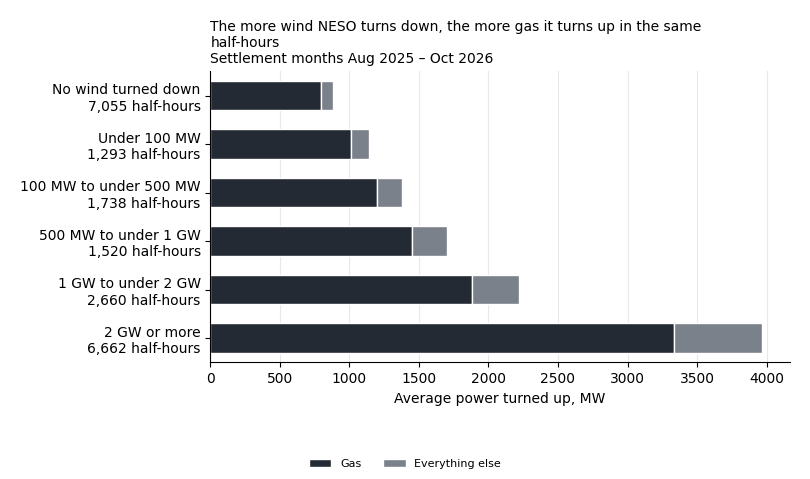
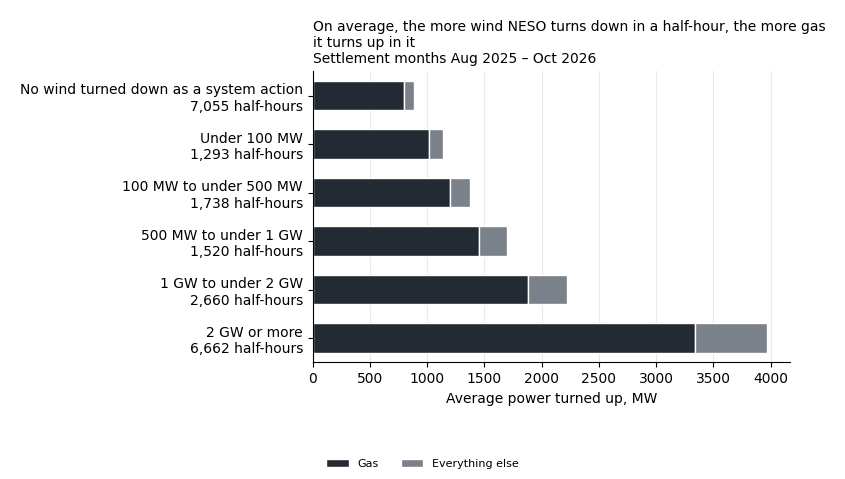
Q37: averages in the headline and chart title, the first band named as a system action, flags on superseded acceptances; worked rows for a stretch inside a ramp

diff --git a/site/index.html b/site/index.html
@@ -668,10 +668,10 @@
 
   <article id="q37">
     <h3>When NESO turns wind farms down, what does it turn up?</h3>
-    <p class="answer"><strong>Mostly gas, and more of it the more wind is turned down.</strong> NESO turned wind down as a system action in 66% of half-hours, and by 1 GW or more in 45%. Where wind is turned down as a system action, gas is 85% of the energy turned up, 2.4 GW on average; elsewhere, gas is still 90% of it, but 0.8 GW.</p>
+    <p class="answer"><strong>Mostly gas, and on average more gas the more wind is turned down in the same half-hour.</strong> NESO turned wind down as a system action in 66% of half-hours, and by 1 GW or more in 45%. Where wind is turned down as a system action, gas is 85% of the energy turned up, 2.4 GW on average; elsewhere, gas is still 90% of it, but 0.8 GW.</p>
     <figure>
       <div class="chart" id="q37-chart">
-        <img src="results/q37_turn_up_by_wind_turn_down_band.png" alt="The more wind NESO turns down, the more gas it turns up in the same half-hours" loading="lazy">
+        <img src="results/q37_turn_up_by_wind_turn_down_band.png" alt="On average, the more wind NESO turns down in a half-hour, the more gas it turns up in it" loading="lazy">
       </div>
       <figcaption>Settlement months Aug 2025 – Oct 2026, every unit NESO instructed. Source: Elexon BMRS.</figcaption>
     </figure>
@@ -680,7 +680,7 @@
       <summary>How I measured it</summary>
       <dl>
         <dt>Result</dt>
-        <dd>NESO turned down 14.9 TWh at wind farms as system actions (settlement months Aug 2025 – Oct 2026), 14% of the energy the wind farms planned; by month from 9% (August 2026) to 22% (September 2026). Of 20,928 half-hours, 13,873 have such a turn-down (66%), 12,580 one of 100 MW or more (60%) and 9,322 one of 1 GW or more (45%). In the 13,873, NESO turned up 19.4 TWh, 16.4 TWh of it at gas units (85%). In the 7,055 with none, it turned up 3.1 TWh, 2.8 TWh of it at gas units (90%).</dd>
+        <dd>NESO turned down 14.9 TWh at wind farms as system actions (settlement months Aug 2025 – Oct 2026), 14% of the energy the wind farms planned; by month from 9% (August 2026) to 22% (September 2026). Of 20,928 half-hours, 13,873 have such a turn-down (66%), 12,580 one of 100 MW or more (60%) and 9,322 one of 1 GW or more (45%). In the 13,873, NESO turned up 19.4 TWh, 16.4 TWh of it at gas units (85%). In the 7,055 with none, it turned up 3.1 TWh, 2.8 TWh of it at gas units (90%). By band, gas averages 0.8 GW with no wind turned down as a system action and 3.3 GW at 2 GW or more, while its share of the energy turned up falls from 90% to 84%.</dd>
         <dt>Chart</dt>
         <dd>Settlement months Aug 2025 – Oct 2026; the first is a part month, from 22 August 2025. Each half-hour is placed by the wind NESO turned down in it as a system action; a half-hour's energy in MWh times two is its average power in MW. Everything else is bioenergy, hydro, pumped storage, wind, the other group and units with no published fuel type.</dd>
         <dt>Measure</dt>
@@ -688,7 +688,7 @@
         <dt>Left out</dt>
         <dd>Nothing: every instruction in the period had a plan to compare with, a single ramp to read its level from and a flag value.</dd>
         <dt>Limits</dt>
-        <dd>Only Balancing Mechanism instructions are read: no trades, and no wind outside the Balancing Mechanism. At a battery, pumped-storage, interconnector or demand unit, turned up can mean importing less. Half-hours with wind turned down differ from the others in wind and demand, and nothing here allows for that. Gas is most of the energy NESO turns up in every band, with or without wind turned down.</dd>
+        <dd>Only Balancing Mechanism instructions are read: no trades, and no wind outside the Balancing Mechanism. At a battery, pumped-storage, interconnector or demand unit, turned up can mean importing less. Half-hours with wind turned down differ from the others in wind and demand, and nothing here allows for that. Gas is most of the energy NESO turns up in every band, including half-hours with no wind turned down as a system action. Where a later instruction replaces an earlier one, the whole distance from the plan carries the later instruction's flag.</dd>
         <dt>Data</dt>
         <dd>22 August 2025 to 31 October 2026, with data to 31 October 2026 23:30 UTC. Read 27 November 2026, 07:54 UTC.</dd>
         <dt>Method</dt>
@@ -1094,7 +1094,7 @@
     <li>The metered figure is the latest settlement run held at each read, which differs by date.</li>
     <li>The plan (PN) is the latest published Final Physical Notification captured after gate closure.</li>
     <li>Services NESO buys outside the balancing mechanism are not in the instructions (BOALF).</li>
-    <li>The units studied are not the whole grid: wind and solar on local networks outside the Balancing Mechanism are not in them, and batteries with no published fuel type are counted only in what is turned up with wind turned down<a class="ref" href="#q37" aria-label="Details, Q37">*</a>.</li>
+    <li>The units studied are not the whole grid: wind and solar on local networks outside the Balancing Mechanism are not in them, and batteries with no published fuel type are counted only in settlement revisions<a class="ref" href="#q2" aria-label="Details, Q2">*</a> and what is turned up with wind turned down<a class="ref" href="#q37" aria-label="Details, Q37">*</a>.</li>
     <li>Results that set one measure against another (published outages<a class="ref" href="#q5" aria-label="Details, Q5">*</a>, demand or under-delivery<a class="ref" href="#q8" aria-label="Details, Q8">*</a>, carbon misses and under-delivery<a class="ref" href="#q28" aria-label="Details, Q28">*</a>, wind's shortfall<a class="ref" href="#wind-shortfall" aria-label="Details, wind's shortfall">*</a>, wind and carbon misses<a class="ref" href="#q30" aria-label="Details, Q30">*</a> and what is turned up with wind turned down<a class="ref" href="#q37" aria-label="Details, Q37">*</a>) are associations, not causes. Each result covers the period given beside it and may not hold in another.</li>
     <li>The forecast's drift<a class="ref" href="#q1" aria-label="Details, Q1">*</a> and accuracy by lead time<a class="ref" href="#q10" aria-label="Details, Q10">*</a> cover one window, 19 August to 12 November 2026, with no winter or spring. Inside it the accuracy result's bias changes sign: negative on its 365 earliest half-hours (19 August to 4 September 2026), positive on the 2,499 from 11 September. The drift's upward direction also holds on the 2,530 half-hours after 10 September 2026, 05:30 UTC; the accuracy figures point to a reversal on the earliest half-hours, for which the drift's own output has no figure. The split falls across a week-long gap in the sample as well as the change in the archive's poll schedule on 10 September 2026, and the saved outputs cannot tell a seasonal change from a capture effect.</li>
     <li>The results cannot be rebuilt from public data: the archived forecast versions behind them cannot be fetched again from the public APIs, so only GridSkew's own copies hold them; superseded settlement runs cannot be fetched again either and are not copied.</li>

diff --git a/tests/test_results_charts.py b/tests/test_results_charts.py
@@ -664,7 +664,7 @@ EXPECTED_CHART_CSVS = {
     # half-hours, gas and the rest.
     "q37_turn_up_by_wind_turn_down_band.csv": BMRS_LINE
     + "wind_turn_down_band,half_hours,gas_mw,other_mw,label\n"
-    '0 none,1000,500.0,37.6,"No wind turned down|1,000 half-hours"\n'
+    '0 none,1000,500.0,37.6,"No wind turned down as a system action|1,000 half-hours"\n'
     "1 under 100 MW,200,600.0,40.0,Under 100 MW|200 half-hours\n"
     "2 100 MW to under 500 MW,300,700.0,50.0,"
     "100 MW to under 500 MW|300 half-hours\n"
@@ -8121,6 +8121,8 @@ Q37_OUTPUT = "q37_wind_turn_down_and_turn_up.csv"
 Q37_CHART_DATA = "q37_turn_up_by_wind_turn_down_band.csv"
 Q37_ALL_MONTHS = "wind turned down, all months"
 Q37_NO_WIND_TURNED_DOWN = "0 none"
+Q37_WIND_NOT_MEASURED = "6 wind turn-down not measured"
+Q37_LARGEST_BAND = "5 2 GW or more"
 
 
 def turn_up_with_and_without_wind_turn_down(rows):
@@ -8139,6 +8141,9 @@ def turn_up_with_and_without_wind_turn_down(rows):
     bands_counted = set()
     for row in section_rows(rows, "3"):
         band = row["wind_turn_down_band"]
+        if band == Q37_WIND_NOT_MEASURED:
+            # On neither side of the comparison.
+            continue
         side = sides["with"]
         if band == Q37_NO_WIND_TURNED_DOWN:
             side = sides["without"]
@@ -8200,8 +8205,9 @@ def test_q37s_answer_takes_its_shares_and_gas_power_from_its_saved_output():
     sides = turn_up_with_and_without_wind_turn_down(rows)
 
     assert answer_of(PAGE.read_text(encoding="utf-8"), "q37") == (
-        "<strong>Mostly gas, and more of it the more wind is turned down."
-        "</strong> NESO turned wind down as a system action in "
+        "<strong>Mostly gas, and on average more gas the more wind is turned "
+        "down in the same half-hour.</strong> NESO turned wind down as a "
+        "system action in "
         f"{percent_of(any_turn_down, half_hours, 0)}% of half-hours, and by 1 GW "
         "or more in "
         f"{percent_of(all_months['half_hours_at_1_gw_or_more'], half_hours, 0)}%. "
@@ -8267,7 +8273,7 @@ def test_q37s_result_gives_the_energy_turned_up_on_each_side_from_its_bands():
         f"gas units ({gas_share(with_wind)}%). In the {without['half_hours']:,} "
         f"with none, it turned up {twh(without['all_mwh'])} TWh, "
         f"{twh(without['gas_mwh'])} TWh of it at gas units "
-        f"({gas_share(without)}%).</dd>"
+        f"({gas_share(without)}%). By band, gas averages "
         in fold_outs(PAGE.read_text(encoding="utf-8"), "q37")
     )
 
@@ -8326,7 +8332,7 @@ def test_q37s_chart_entry_names_every_group_its_second_part_holds():
 
 
 def test_q37s_title_holds_band_by_band_in_its_chart_data():
-    # "The more wind NESO turns down, the more gas it turns up": the gas
+    # "The more wind NESO turns down in a half-hour, the more gas": the gas
     # bar grows at every step from no wind turned down to 2 GW or more.
     bands = []
     gas_mw = []
@@ -8337,6 +8343,78 @@ def test_q37s_title_holds_band_by_band_in_its_chart_data():
     assert bands == sorted(bands)
     assert len(bands) == 6
     assert gas_mw == sorted(set(gas_mw))
+
+
+def turn_up_by_band(rows):
+    """Q37's energy turned up in each band of wind turned down as a system
+    action: every group's and gas's, in MWh, beside the band's half-hours."""
+    bands = {}
+    for row in section_rows(rows, "3"):
+        band = bands.setdefault(
+            row["wind_turn_down_band"],
+            {
+                "half_hours": int(row["half_hours"]),
+                "all_mwh": Decimal(0),
+                "gas_mwh": Decimal(0),
+            },
+        )
+        band["all_mwh"] += Decimal(row["turned_up_mwh"])
+        if row["fuel_group"] == "gas_turbine":
+            band["gas_mwh"] += Decimal(row["turned_up_mwh"])
+    return bands
+
+
+def test_q37s_result_gives_gas_at_both_ends_of_its_bands_from_its_saved_output():
+    # "Falls from ... to ...": gas's share drops at every step up the bands.
+    bands = turn_up_by_band(saved_output_rows(Q37_OUTPUT))
+    none = bands[Q37_NO_WIND_TURNED_DOWN]
+    largest = bands[Q37_LARGEST_BAND]
+    exact_shares = []
+    for name in sorted(bands):
+        exact_shares.append(bands[name]["gas_mwh"] / bands[name]["all_mwh"])
+
+    assert exact_shares == sorted(set(exact_shares), reverse=True)
+    assert (
+        f"By band, gas averages {average_gas_gw(none)} GW with no wind turned "
+        f"down as a system action and {average_gas_gw(largest)} GW at 2 GW or "
+        "more, while its share of the energy turned up falls from "
+        f"{gas_share(none)}% to {gas_share(largest)}%.</dd>"
+        in fold_outs(PAGE.read_text(encoding="utf-8"), "q37")
+    )
+
+
+def test_q37s_limits_say_gas_is_most_of_the_turn_up_in_every_band():
+    bands = turn_up_by_band(saved_output_rows(Q37_OUTPUT))
+
+    assert len(bands) == 6
+    for band in bands.values():
+        assert 2 * band["gas_mwh"] > band["all_mwh"]
+    assert (
+        "Gas is most of the energy NESO turns up in every band, including "
+        "half-hours with no wind turned down as a system action."
+        in fold_outs(PAGE.read_text(encoding="utf-8"), "q37")
+    )
+
+
+def test_q37_leaves_nothing_out_in_its_saved_output():
+    # Section 4 holds what is left out and what fails a check; a half-hour
+    # with a wind stretch left out is counted in its month.
+    rows = saved_output_rows(Q37_OUTPUT)
+    not_measured = set()
+    for row in section_rows(rows, "1") + section_rows(rows, "2"):
+        not_measured.add(row["half_hours_wind_not_measured"])
+    bands = []
+    for row in section_rows(rows, "3"):
+        bands.append(row["wind_turn_down_band"])
+
+    assert section_rows(rows, "4") == []
+    assert not_measured == {"0"}
+    assert Q37_WIND_NOT_MEASURED not in bands
+    assert (
+        "<dd>Nothing: every instruction in the period had a plan to compare "
+        "with, a single ramp to read its level from and a flag value.</dd>"
+        in fold_outs(PAGE.read_text(encoding="utf-8"), "q37")
+    )
 
 
 def test_q25s_answer_gives_the_short_shares_from_its_chart_data():

diff --git a/tests/integration/check_one_look_analyses.py b/tests/integration/check_one_look_analyses.py
@@ -1095,7 +1095,14 @@ Q25_EXPECTED = {
 #   because the stretch is not wind's.
 # 11:00: WIND-1 flagged to 0: 1,000 down, exactly 2 GW. PS-1 flagged from 0
 #   to 120 for 11:00 to 11:10 only: 20 up; its PN segment from 11:20, at
-#   60, adds nothing.
+#   60, adds nothing. HYDRO-1 plans 0, in two PN segments that meet at
+#   11:15, and its ramp point climbs from 0 to 300 over the half-hour,
+#   but its stretch is 11:10 to 11:20 only: the level is 100, 150 and
+#   200 at 11:10, 11:15 and 11:20, so 125 MW then 175 MW for a twelfth
+#   of an hour each, 25 up. BIO-1 is held at 0 for 11:10 to 11:20 while
+#   its PN climbs from 0 to 300 over the half-hour: the PN is 100 at
+#   11:10 and 200 at 11:20, 150 MW on average for a sixth of an hour,
+#   25 down.
 # 12:00: WIND-1 flagged to 1,999 until 12:15: 0.25 down; then, not flagged,
 #   to 2,040: 10 up. A second ramp point of that acceptance, from 12:00 at
 #   2,100, also spans the later stretch; the one that starts latest is
@@ -1110,7 +1117,8 @@ Q25_EXPECTED = {
 #   half-hour is not read: WIND-1's stretch (700 MWh at its level) is left
 #   out and GAS-1's 50 up, from 100 to 200, is counted beside the result.
 # 15:00: WIND-1's ramp points run to 15:10 and from 15:20 but its stretch
-#   is 15:00 to 15:20, so the stretch (900 MWh) is left out; the half-hour
+#   is 15:00 to 15:20, so the stretch (900 MWh) is left out, though an
+#   earlier capture of the first ramp point ran to 15:30; the half-hour
 #   is read, in the band for wind turn-down not measured. Its next
 #   stretch, 15:20 to 15:30 to 1,940 and not flagged, is measured: 60 MW
 #   for a sixth of an hour, 10 down. GAS-1 from 100 to 130, not flagged:
@@ -1163,6 +1171,10 @@ insert into synthetic_intervals values
         '2026-09-01 11:00+00', '2026-09-01 11:30+00', 9, true, 0),
     ('PS-1', '2026-09-01 11:00+00',
         '2026-09-01 11:00+00', '2026-09-01 11:10+00', 10, true, 20),
+    ('HYDRO-1', '2026-09-01 11:00+00',
+        '2026-09-01 11:10+00', '2026-09-01 11:20+00', 26, false, 25),
+    ('BIO-1', '2026-09-01 11:00+00',
+        '2026-09-01 11:10+00', '2026-09-01 11:20+00', 27, false, 0),
     ('WIND-1', '2026-09-01 12:00+00',
         '2026-09-01 12:00+00', '2026-09-01 12:15+00', 11, true, 499.75),
     ('WIND-1', '2026-09-01 12:00+00',
@@ -1197,7 +1209,9 @@ insert into synthetic_cohort values
     ('WIND-1', 'wind'),
     ('WIND-2', 'wind'),
     ('GAS-1', 'gas_turbine'),
-    ('PS-1', 'pumped_storage');
+    ('PS-1', 'pumped_storage'),
+    ('HYDRO-1', 'hydro'),
+    ('BIO-1', 'bioenergy');
 create temporary table synthetic_boalf (
     national_grid_bm_unit text,
     acceptance_number integer,
@@ -1234,6 +1248,10 @@ insert into synthetic_boalf values
         10, 10, '2026-09-02 01:00+00'),
     ('PS-1', 10, '2026-09-01 11:00+00', '2026-09-01 11:10+00',
         120, 120, '2026-09-02 01:00+00'),
+    ('HYDRO-1', 26, '2026-09-01 11:00+00', '2026-09-01 11:30+00',
+        0, 300, '2026-09-02 01:00+00'),
+    ('BIO-1', 27, '2026-09-01 11:10+00', '2026-09-01 11:20+00',
+        0, 0, '2026-09-02 01:00+00'),
     ('WIND-1', 11, '2026-09-01 12:00+00', '2026-09-01 12:15+00',
         1999, 1999, '2026-09-02 01:00+00'),
     ('WIND-1', 21, '2026-09-01 12:00+00', '2026-09-01 12:30+00',
@@ -1250,6 +1268,8 @@ insert into synthetic_boalf values
         200, 200, '2026-09-02 01:00+00'),
     ('WIND-1', 16, '2026-09-01 14:00+00', '2026-09-01 14:30+00',
         1400, 1400, '2026-09-02 01:00+00'),
+    ('WIND-1', 17, '2026-09-01 15:00+00', '2026-09-01 15:30+00',
+        1800, 1800, '2026-09-01 20:00+00'),
     ('WIND-1', 17, '2026-09-01 15:00+00', '2026-09-01 15:10+00',
         1800, 1800, '2026-09-02 01:00+00'),
     ('WIND-1', 17, '2026-09-01 15:20+00', '2026-09-01 15:30+00',
@@ -1286,6 +1306,8 @@ insert into synthetic_commitments values
     ('WIND-2', '2026-09-01', 23, '2026-09-01 10:00+00', 250, 'complete', '2026-09-06 00:00+00'),
     ('WIND-1', '2026-09-01', 25, '2026-09-01 11:00+00', 1000, 'complete', '2026-09-06 00:00+00'),
     ('PS-1', '2026-09-01', 25, '2026-09-01 11:00+00', 0, 'complete', '2026-09-06 00:00+00'),
+    ('HYDRO-1', '2026-09-01', 25, '2026-09-01 11:00+00', 0, 'complete', '2026-09-06 00:00+00'),
+    ('BIO-1', '2026-09-01', 25, '2026-09-01 11:00+00', 75, 'complete', '2026-09-06 00:00+00'),
     ('WIND-1', '2026-09-01', 27, '2026-09-01 12:00+00', 1000, 'complete', '2026-09-06 00:00+00'),
     ('GAS-1', '2026-09-01', 27, '2026-09-01 12:00+00', 50, 'complete', '2026-09-06 00:00+00'),
     ('WIND-1', '2026-09-01', 29, '2026-09-01 13:00+00', 1000, 'complete', '2026-09-06 00:00+00'),
@@ -1339,6 +1361,12 @@ insert into synthetic_pn values
         0, 0, '2026-09-06 00:00+00'),
     ('PS-1', '2026-09-01', 25, '2026-09-01 11:20+00', '2026-09-01 11:30+00',
         60, 60, '2026-09-06 00:00+00'),
+    ('HYDRO-1', '2026-09-01', 25, '2026-09-01 11:00+00', '2026-09-01 11:15+00',
+        0, 0, '2026-09-06 00:00+00'),
+    ('HYDRO-1', '2026-09-01', 25, '2026-09-01 11:15+00', '2026-09-01 11:30+00',
+        0, 0, '2026-09-06 00:00+00'),
+    ('BIO-1', '2026-09-01', 25, '2026-09-01 11:00+00', '2026-09-01 11:30+00',
+        0, 300, '2026-09-06 00:00+00'),
     ('WIND-1', '2026-09-01', 27, '2026-09-01 12:00+00', '2026-09-01 12:30+00',
         2000, 2000, '2026-09-06 00:00+00'),
     ('GAS-1', '2026-09-01', 27, '2026-09-01 12:00+00', '2026-09-01 12:30+00',
@@ -1474,6 +1502,10 @@ Q37_EXPECTED = dict(
         ),
         q37_band_row(
             BAND_FROM_2_GW, "pumped_storage", 1, "20.000", "20.000", "0.000", "0.000"
+        ),
+        q37_band_row(BAND_FROM_2_GW, "hydro", 1, "25.000", "0.000", "0.000", "0.000"),
+        q37_band_row(
+            BAND_FROM_2_GW, "bioenergy", 1, "0.000", "0.000", "25.000", "0.000"
         ),
         (
             (4, None, None, "wind", "left out: no complete PN capture, flagged"),

diff --git a/scripts/results_charts.py b/scripts/results_charts.py
@@ -277,7 +277,7 @@ Q24_AXIS_TITLE = "Share of the energy instructions moved, %"
 # The bands of flagged wind turn-down in a half-hour, as the saved output
 # names them and as the chart shows them, least first.
 Q37_BAND_NAMES = {
-    "0 none": "No wind turned down",
+    "0 none": "No wind turned down as a system action",
     "1 under 100 MW": "Under 100 MW",
     "2 100 MW to under 500 MW": "100 MW to under 500 MW",
     "3 500 MW to under 1 GW": "500 MW to under 1 GW",
@@ -449,7 +449,8 @@ Q24_TITLE = (
     "system actions"
 )
 Q37_TITLE = (
-    "The more wind NESO turns down, the more gas it turns up in the same half-hours"
+    "On average, the more wind NESO turns down in a half-hour, the more gas it "
+    "turns up in it"
 )
 Q25_TITLE = (
     "The other group (mostly batteries) and pumped storage get far more short "

diff --git a/README.md b/README.md
@@ -12,8 +12,9 @@ it captures, which those APIs later overwrite.
 
 **Results:** <https://jaywatnorm.github.io/gridskew>
 
-**Status:** the analysis is complete (27 November 2026). The Airflow DAGs
-keep collecting data, and the nightly dbt job keeps building and testing it.
+**Status:** the analysis is complete; the last question was read on
+27 November 2026. The Airflow DAGs keep collecting data, and the nightly dbt
+job keeps building and testing it.
 
 ## What it found
 
@@ -280,8 +281,9 @@ repository's release runbook, which is not public.
 
 ## Status
 
-The analysis is complete (27 November 2026). The DAGs keep collecting data,
-and the nightly dbt job keeps building and testing it.
+The analysis is complete; the last question was read on 27 November 2026.
+The DAGs keep collecting data, and the nightly dbt job keeps building and
+testing it.
 
 **Complete and running**
 

diff --git a/docs/research-questions.md b/docs/research-questions.md
@@ -768,6 +768,10 @@ before this method was written.
   interconnector or demand unit, turned up can mean importing less.
   Half-hours with wind turned down differ from the others in wind and
   demand, and nothing here controls for that.
+- **Superseded acceptances (added 27 November 2026, after the read).**
+  Where a later acceptance supersedes an earlier one for the same
+  minutes, all of the energy between its level and the PN carries the
+  later acceptance's flag.
 
 ## Retired
 
